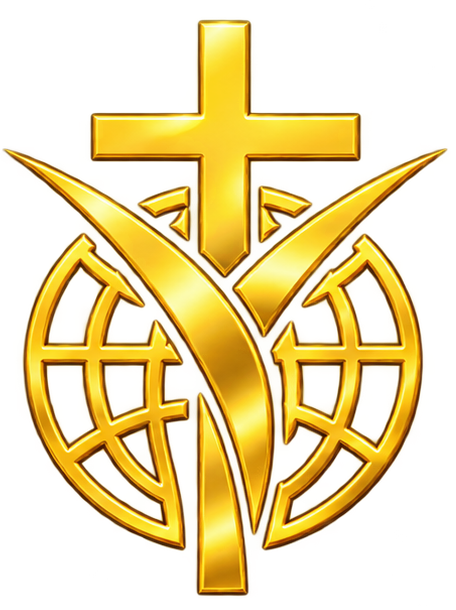
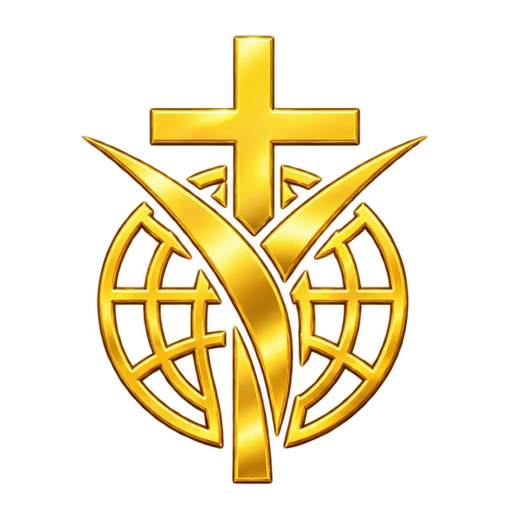
Add files via upload

diff --git a/index.html b/index.html
@@ -4,7 +4,7 @@
 <meta charset="utf-8">
 <meta name="viewport" content="width=device-width,initial-scale=1,viewport-fit=cover">
 <meta name="theme-color" content="#6a3e29">
-<link rel="icon" type="image/webp" href="iconeredencao.webp">
+<link rel="icon" type="image/webp" sizes="512x512" href="iconeredencao.webp">
 <link rel="shortcut icon" type="image/webp" href="iconeredencao.webp">
 <title>Escala de Obreiros — Ministério Redenção</title>
 
